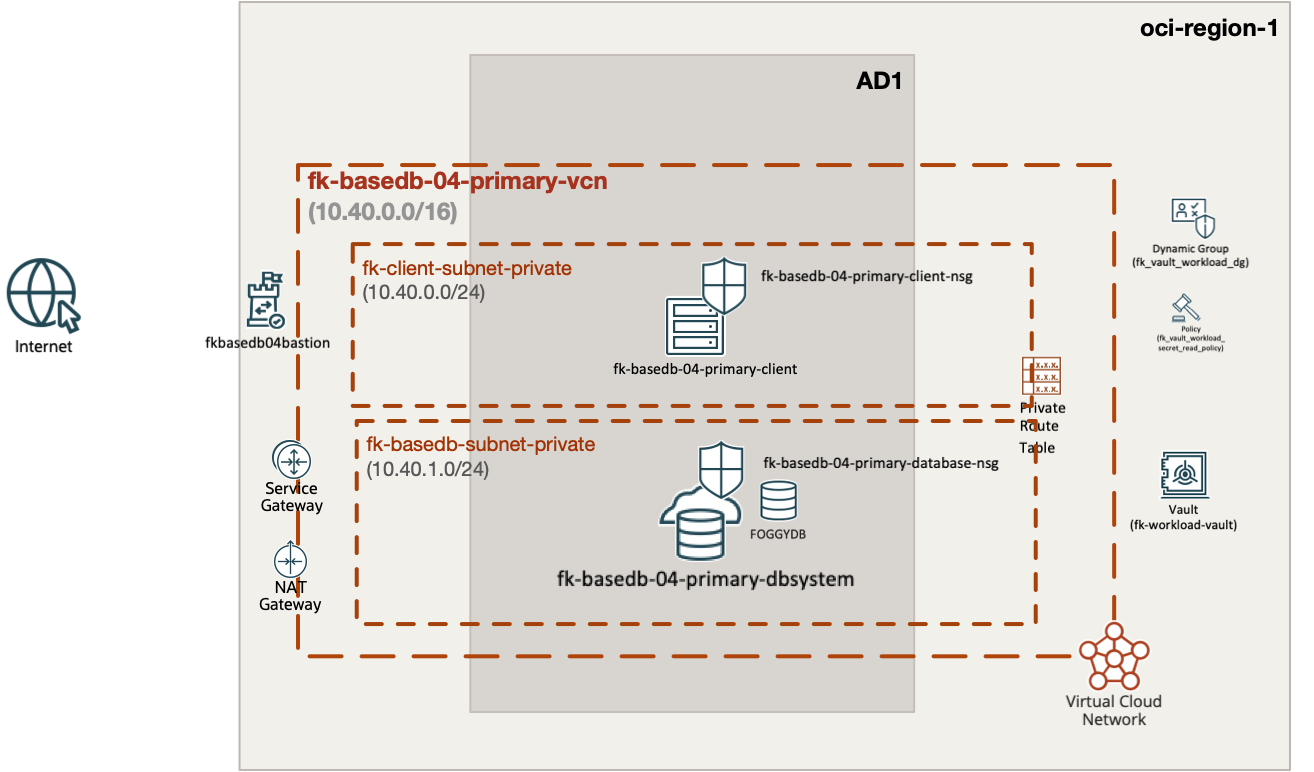
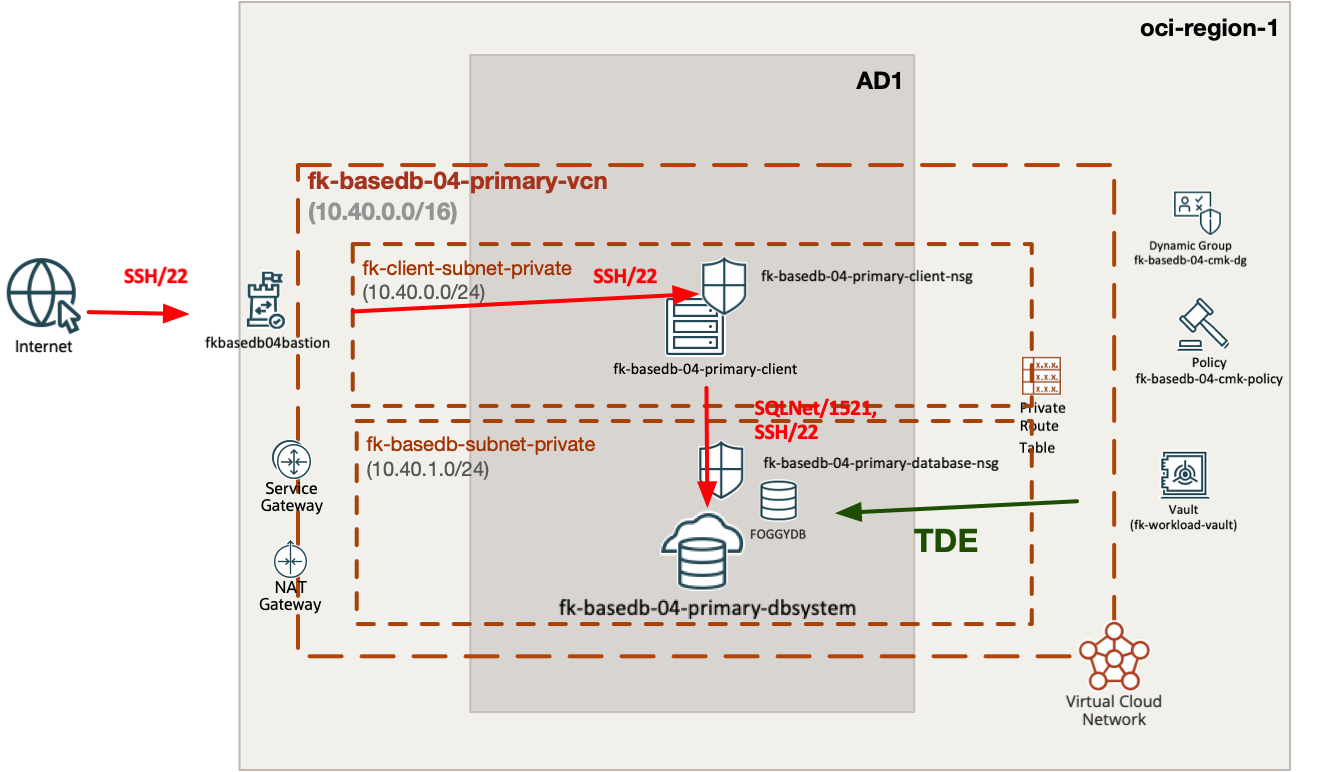
Embed updated CMK private-access architecture diagram

diff --git a/examples/04_single_primary_with_cmk/README.md b/examples/04_single_primary_with_cmk/README.md
@@ -6,6 +6,8 @@ A secret containing an ADB password is not a TDE master key. This example never 
 
 ## Architecture
 
+![Private BaseDB with an existing Vault key and OCI Bastion Service](04_single_primary_with_cmk_architecture.jpg)
+
 - A dedicated lab compartment and VCN with two private subnets: client and Bastion endpoint `10.40.0.0/24`, and database `10.40.1.0/24`.
 - An Oracle Linux 9 client with no public IP, reached through OCI Bastion Service from `admin_cidr`. No Internet Gateway; NAT and Service Gateway provide outbound connectivity.
 - The client subnet security list allows TCP/22 egress within that subnet for the Bastion endpoint. This additive rule also applies to the client VNIC. Client NSG ingress allows SSH only from the endpoint's /32. Database NSG ingress allows TCP/22 and TCP/1521 only from the client NSG.
